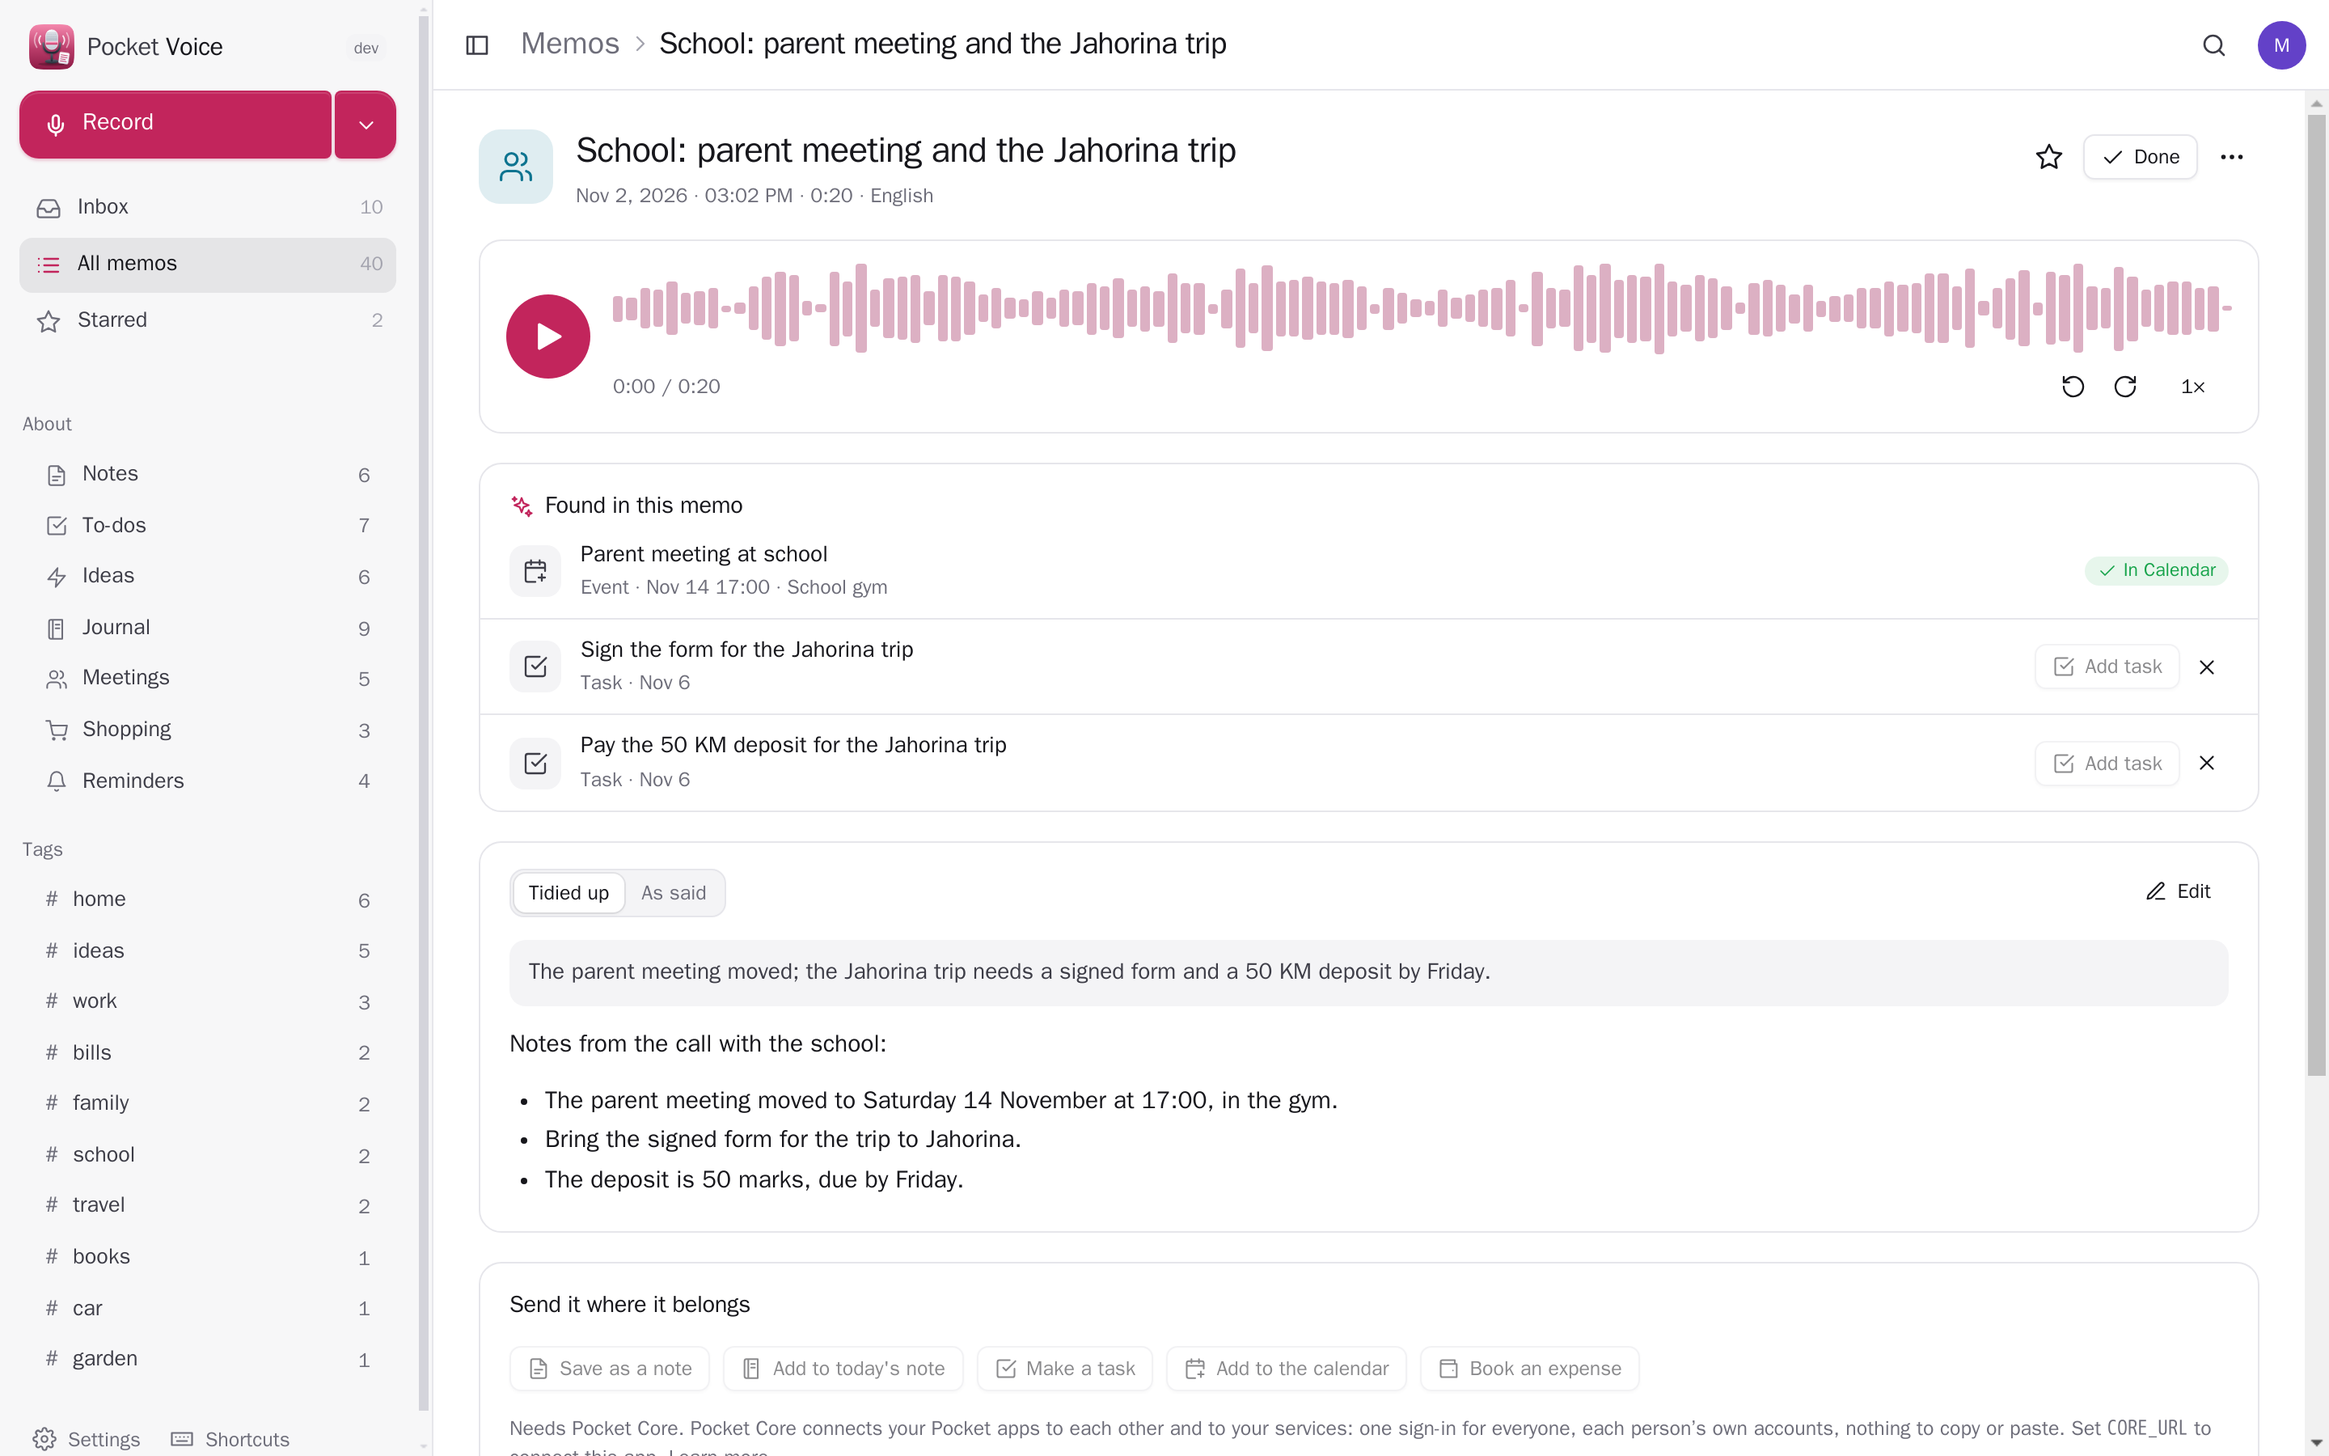
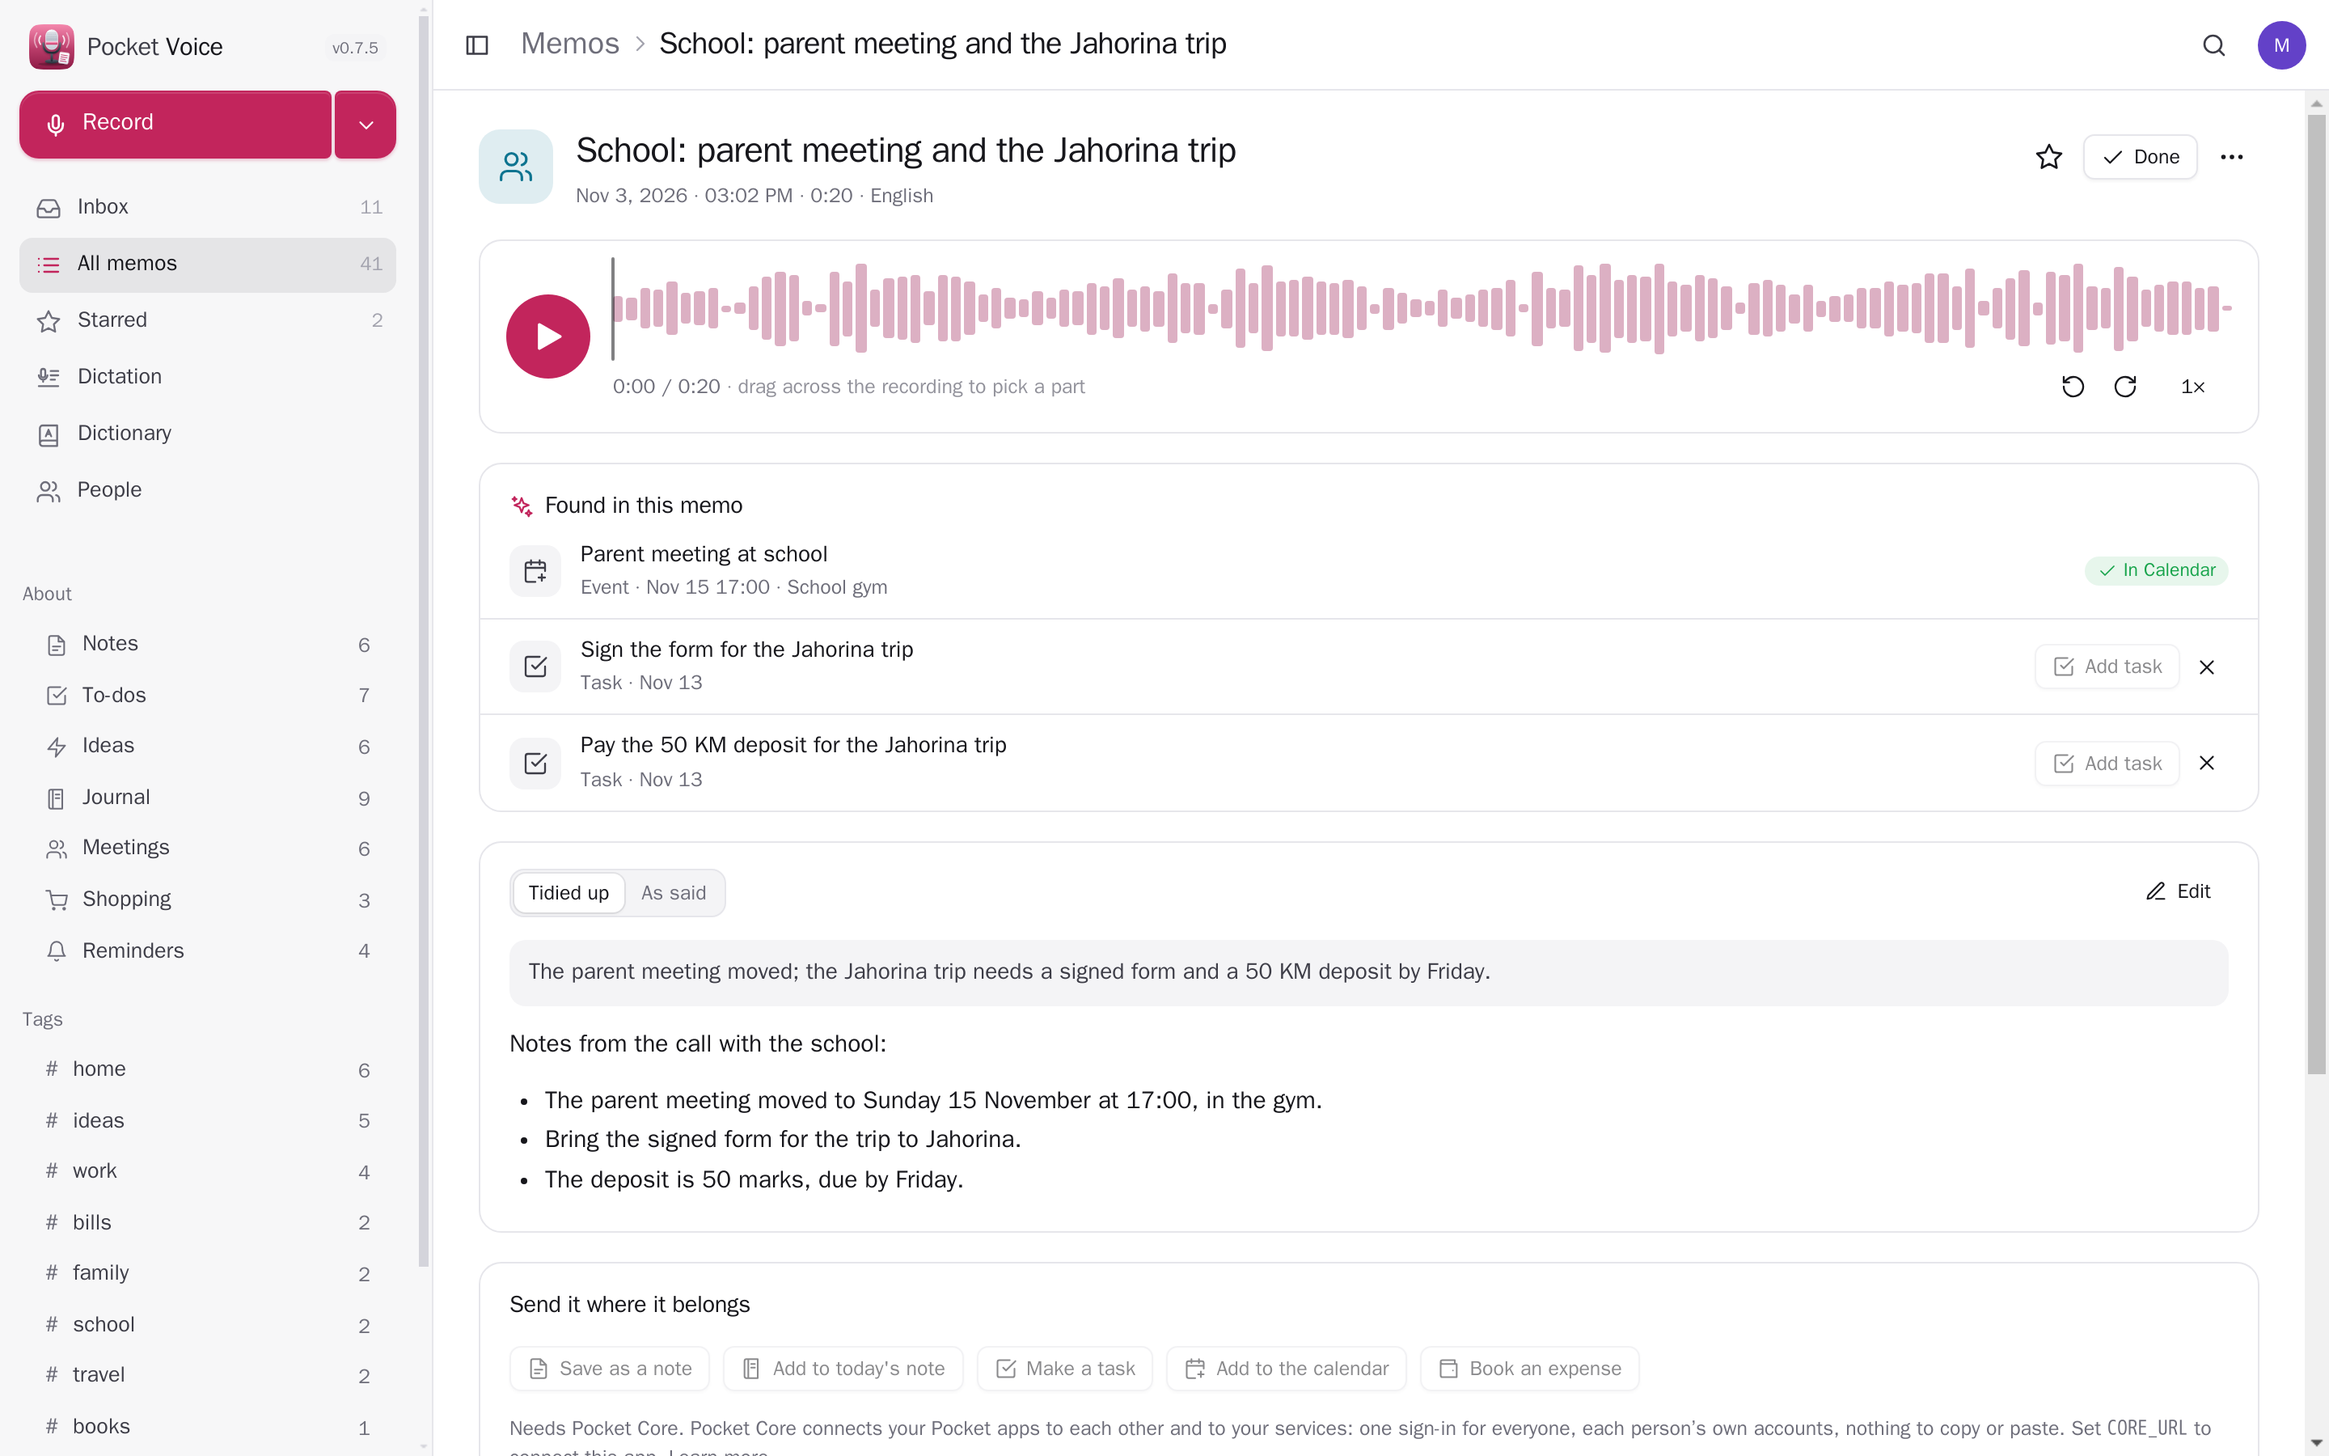
Tag badges without the # and without an underline on hover; the demo has a twenty-minute team stand-up with six voices (named, recognised, asked about, a name heard in the call), and the README shows it (desktop-meeting, dark); screenshots retaken (0.7.5)

diff --git a/web/src/components/TagInput.tsx b/web/src/components/TagInput.tsx
@@ -45,7 +45,7 @@ export function TagInput({ value, onChange, placeholder = 'Add a tag' }: { value
     <div className="tag-input" onClick={e => { if (e.target === e.currentTarget) input.current?.focus() }}>
       {tags.map(t => (
         <span key={t} className="tag-badge">
-          <Link to={`/tag/${encodeURIComponent(t)}`} title={`Memos tagged ${t}`}>#{t}</Link>
+          <Link to={`/tag/${encodeURIComponent(t)}`} title={`Memos tagged ${t}`}>{t}</Link>
           <button type="button" onClick={() => remove(t)} aria-label={`Take off ${t}`} title="Take off"><Icon name="x" size={12} strokeWidth={2.4} /></button>
         </span>
       ))}
@@ -56,7 +56,7 @@ export function TagInput({ value, onChange, placeholder = 'Add a tag' }: { value
           onFocus={() => setOpen(true)} onBlur={() => { setOpen(false); if (q) add(text) }} onKeyDown={key} />
         {shown && <ul className="tag-suggest" role="listbox">{suggest.map((t, i) => (
           <li key={t} role="option" aria-selected={i === hi} className={i === hi ? 'on' : ''}
-            onMouseDown={e => { e.preventDefault(); add(t) }} onMouseEnter={() => setHi(i)}>#{t}<span className="muted small">{known.find(k => k.tag === t)?.count}</span></li>
+            onMouseDown={e => { e.preventDefault(); add(t) }} onMouseEnter={() => setHi(i)}>{t}<span className="muted small">{known.find(k => k.tag === t)?.count}</span></li>
         ))}</ul>}
       </span>
     </div>

diff --git a/web/src/styles/voice.css b/web/src/styles/voice.css
@@ -602,7 +602,7 @@ button.spk:hover { box-shadow: inset 0 0 0 1px color-mix(in srgb, var(--c, var(-
   color: color-mix(in srgb, var(--accent) 80%, var(--text)); background: color-mix(in srgb, var(--accent) 13%, transparent);
   border: 1px solid color-mix(in srgb, var(--accent) 28%, transparent); }
 .tag-badge a { color: inherit; text-decoration: none; }
-.tag-badge a:hover { text-decoration: underline; }
+.tag-badge a:hover { text-decoration: none; color: var(--text); }
 .tag-badge button { display: grid; place-items: center; width: 20px; height: 20px; border: 0; border-radius: 50%; background: transparent; color: inherit; cursor: pointer; opacity: .65; }
 .tag-badge button:hover { opacity: 1; background: color-mix(in srgb, var(--accent) 22%, transparent); }
 .tag-entry { position: relative; flex: 1; min-width: 110px; }

diff --git a/internal/server/demo_meeting.go b/internal/server/demo_meeting.go
@@ -1,0 +1,173 @@
+package server
+
+import (
+	"context"
+	"fmt"
+	"math/rand"
+	"strings"
+	"time"
+
+	"github.com/abjelosevic88/pocket-homelab-voice/internal/speech"
+	"github.com/abjelosevic88/pocket-homelab-voice/internal/store"
+)
+
+// demoTurns is a team stand-up recorded with Pocket Launcher: who spoke
+// ("You", or the call's voices S1…S6) and what they said. Updates are long,
+// questions short, as in a real call.
+var demoTurns = []struct{ who, text string }{
+	{"S1", "Morning everyone. Daniel, your sound is a bit low."},
+	{"S2", "Better now? I moved closer to the mic."},
+	{"S1", "Much better. Let's go round, launch first. Selma, you start?"},
+	{"S4", "Sure. The website copy is done and the last round of images is ready. I'll upload the hero image and the three feature pictures today, before five. The pricing page still has the old screenshots, so I'll redo those tomorrow morning."},
+	{"S1", "Great. And the translations?"},
+	{"S4", "German is back from the translator, Bosnian I'm checking myself tonight."},
+	{"You", "Thanks Selma. From my side, the sign-up flow is finished and merged. I fixed the bug where the confirmation mail went out twice, and I added the welcome screen we talked about last week. Today I'm on the export: people asked for it twice in the beta, so I want it in before the launch."},
+	{"S3", "Can the export do CSV as well as PDF?"},
+	{"You", "CSV first, PDF next week. I'll send you a test file this afternoon."},
+	{"S3", "Perfect, I need it for the accountant's import."},
+	{"S2", "Then me. I can put the site live on Tuesday morning. The servers are ready, the backups run every night, and the status page is up. The payment page still needs one more test with a real card."},
+	{"You", "Let's not go live without that test. Can you run it on Monday?"},
+	{"S2", "Monday afternoon, and I'll post the result in the channel."},
+	{"S1", "Good. Mirza, the newsletter?"},
+	{"S3", "We have twelve hundred people on the list now, up from nine hundred last month. Most came from the blog post about the beta. I'll write the launch mail by Friday and share the draft with Lejla."},
+	{"S1", "Then the mail goes out Tuesday at ten, an hour after the site is up."},
+	{"S5", "On support: we had thirty-two tickets this week, most about logging in on the old app. I wrote a help page for it and the number dropped by half since Wednesday. Two people asked about family accounts, I told them it's coming in spring."},
+	{"S1", "Is spring still right for family accounts?"},
+	{"You", "Spring is fine, but not before the export and the new settings."},
+	{"S5", "Then I'll keep saying spring."},
+	{"S6", "Small one from me: the app store pictures need the new logo. I can do them on Thursday if someone sends me the final files."},
+	{"S4", "I'll send them right after this call."},
+	{"S1", "Next, the budget. We spent about four hundred euros on ads in October and got sixty sign-ups, so roughly seven euros each. Two channels worked, the third brought nothing."},
+	{"S3", "Let's stop the third one and keep the money on the other two."},
+	{"S2", "Agreed. Same four hundred for November?"},
+	{"You", "Yes: we stop the third channel and keep four hundred euros for November."},
+	{"S5", "One more thing: I'm away the week after next, Monday to Wednesday. Tarik's inbox goes to Selma then."},
+	{"S4", "Fine with me."},
+	{"S1", "Thanks Tarik. Anything else? Then that's it. Thanks everyone, see you tomorrow."},
+	{"You", "Thanks all."},
+}
+
+const demoMeetingTidy = `## Launch: website and translations
+
+Lejla: Asked Daniel to fix his low sound, then went round the team, launch first.
+Selma: The website copy and the last images are done; the hero image and three feature pictures go up today, before five. The pricing page screenshots are redone tomorrow morning. German is back from the translator; Selma checks Bosnian tonight.
+
+## Sign-up and export
+
+You: The sign-up flow is finished and merged; the double confirmation mail is fixed and the welcome screen is in. Today: the export, asked for twice in the beta, before the launch.
+Mirza: Asked for CSV as well as PDF, for the accountant's import.
+You: CSV first, PDF next week; a test file this afternoon.
+
+## Going live
+
+Daniel: The site can go live on Tuesday morning: servers, nightly backups and the status page are ready. The payment page needs one more test with a real card.
+You: Not live without that test.
+Daniel: Runs it Monday afternoon and posts the result in the channel.
+
+## Newsletter
+
+Mirza: 1,200 people on the list, up from 900, mostly from the beta blog post. The launch mail draft goes to Lejla by Friday.
+Lejla: The mail goes out on Tuesday at 10, an hour after the site.
+
+## Support and app store
+
+Tarik: 32 tickets this week, mostly logging in on the old app; a help page halved them since Wednesday. Two asked for family accounts: "coming in spring".
+You: Spring holds, after the export and the new settings.
+Speaker 6: The app store pictures need the new logo; done on Thursday with the final files.
+Selma: Sends the files right after the call.
+
+## Budget
+
+Lejla: About €400 on ads in October brought 60 sign-ups, roughly €7 each; two channels worked, the third brought nothing.
+Mirza: Stop the third and keep the money on the other two.
+You: The third channel stops; €400 for November.
+
+## Wrap-up
+
+Tarik: Away the week after next, Monday to Wednesday; his inbox goes to Selma.`
+
+const demoMeetingSummary = `The launch is set for Tuesday: Daniel puts the site live in the morning once he has tested the payment page with a real card on Monday, and Mirza's launch mail follows at 10. The export (CSV first) lands before the launch, support tickets halved after a new help page, and family accounts stay promised for spring. October's €400 of ads brought 60 sign-ups.
+
+Decisions:
+- The site goes live on Tuesday morning, only after the payment test
+- The launch mail goes out on Tuesday at 10:00
+- The export ships as CSV first, PDF next week
+- The ad channel that brought nothing is stopped; €400 for November`
+
+// seedDemoMeeting adds a call written out per voice, with the voices named as
+// they would be after a few meetings: one named by you, one recognised, one
+// asked about and one with a name heard in the conversation.
+func (s *Server) seedDemoMeeting(ctx context.Context, uid int64, rng *rand.Rand) error {
+	vec := func() []float32 {
+		v := make([]float32, 16)
+		for i := range v {
+			v[i] = float32(rng.NormFloat64())
+		}
+		return v
+	}
+	voices := map[string][]float32{"S1": vec(), "S2": vec(), "S3": vec(), "S4": vec(), "S5": vec(), "S6": vec()}
+	people := map[string]*store.Person{}
+	for _, p := range []struct {
+		name, key string
+		meetings  int
+	}{{"Lejla", "S1", 6}, {"Daniel", "S2", 4}, {"Mirza", "S3", 5}, {"Selma", "S4", 3}, {"Tarik", "S5", 2}, {"Nina", "S6", 1}} {
+		person := &store.Person{Name: p.name}
+		for i := 0; i < p.meetings; i++ {
+			person.Voices = append(person.Voices, store.Voice{Emb: voices[p.key], MS: int64(40000 + rng.Intn(80000)), MemoID: int64(-1 - i), At: time.Now().AddDate(0, 0, -7*(i+1)).UTC().Format(time.RFC3339Nano)})
+		}
+		if err := s.store.CreatePerson(ctx, uid, person); err != nil {
+			return err
+		}
+		people[p.key] = person
+	}
+
+	// the turns, timed along the call: a stand-up of about twenty minutes
+	var segs []store.Segment
+	var said []string
+	var at int64 = 1200
+	for _, t := range demoTurns {
+		for _, part := range demoSegments(t.text, int64(float64(len(strings.Fields(t.text)))/2.6*1000*5)+2500) {
+			segs = append(segs, store.Segment{Start: at + part.Start, End: at + part.End, Text: part.Text, Speaker: t.who})
+		}
+		at = segs[len(segs)-1].End + int64(1500+rng.Intn(6000))
+		said = append(said, t.text)
+	}
+	dur := at + 1500
+	ms := map[string]int64{}
+	sample := map[string][2]int64{}
+	for _, sg := range segs {
+		ms[sg.Speaker] += sg.End - sg.Start
+		if sg.End-sg.Start > sample[sg.Speaker][1]-sample[sg.Speaker][0] {
+			sample[sg.Speaker] = [2]int64{sg.Start, sg.End}
+		}
+	}
+	m := &store.Memo{Title: "Team stand-up: launch week", Language: "en", Status: store.StatusDone, Meeting: true, Kind: "meeting", KindSet: true,
+		Tags: "work, launch", Engine: "whisper " + speech.DefaultModel, AIStatus: "done", AIProvider: "pocket",
+		DurationMS: dur, Segments: segs, Tidy: demoMeetingTidy, Summary: demoMeetingSummary, SpeakerVoices: voices, SpeakersStatus: "done",
+		Speakers: []store.Speaker{
+			{Key: "You", Name: "You", State: store.SpeakerYou, MS: ms["You"]},
+			{Key: "S1", Name: "Lejla", PersonID: people["S1"].ID, State: store.SpeakerConfirmed, MS: ms["S1"], Sample: sample["S1"]},
+			{Key: "S2", Name: "Daniel", PersonID: people["S2"].ID, State: store.SpeakerAuto, Score: 0.86, MS: ms["S2"], Sample: sample["S2"]},
+			{Key: "S3", Name: "Mirza", PersonID: people["S3"].ID, State: store.SpeakerConfirmed, MS: ms["S3"], Sample: sample["S3"]},
+			{Key: "S4", Name: "Selma", PersonID: people["S4"].ID, State: store.SpeakerConfirmed, MS: ms["S4"], Sample: sample["S4"]},
+			{Key: "S5", Name: "Tarik", PersonID: people["S5"].ID, State: store.SpeakerAuto, Score: 0.81, MS: ms["S5"], Sample: sample["S5"]},
+			{Key: "S6", State: store.SpeakerSuggested, Suggest: "Nina", SuggestID: people["S6"].ID, Score: 0.63, MS: ms["S6"], Sample: sample["S6"],
+				Hint: "Nina", HintWhy: "Selma answers this voice with \"I'll send them right after this call\" when it asks for the logo files, and Lejla thanked Nina for the same files last week."},
+		},
+		Actions: []store.Action{
+			{Type: "task", Title: "Send Mirza a CSV test file of the export", Due: demoDate(1)},
+			{Type: "task", Title: "Check that Daniel tested the payment page", Due: demoNext(time.Monday), Notes: "With a real card, before the site goes live"},
+			{Type: "event", Title: "Website launch", Start: demoNext(time.Tuesday) + "T09:00"},
+		}}
+	at0 := time.Now().AddDate(0, 0, -1)
+	m.RecordedAt = time.Date(at0.Year(), at0.Month(), at0.Day(), 9, 30, 0, 0, time.Local).UTC().Format(time.RFC3339Nano)
+	m.Peaks = demoPeaks(rng, strings.Join(said, " "))
+	m.Transcript = conversation(segs, func(k string) string { return speakerLabel(m, k) })
+	if name, size, err := s.demoAudio(uid, m.Peaks, dur); err == nil {
+		m.Audio, m.AudioType, m.AudioBytes = name, "audio/wav", size
+	}
+	if err := s.store.CreateMemo(ctx, uid, m); err != nil {
+		return fmt.Errorf("demo meeting: %w", err)
+	}
+	return nil
+}

diff --git a/internal/server/demo.go b/internal/server/demo.go
@@ -241,6 +241,9 @@ func (s *Server) seedDemo(ctx context.Context, uid int64) error {
 			}
 		}
 	}
+	if err := s.seedDemoMeeting(ctx, uid, rng); err != nil {
+		return err
+	}
 	n, err := s.seedDemoDictations(ctx, uid, rng)
 	if err != nil {
 		return err

diff --git a/README.md b/README.md
@@ -30,6 +30,9 @@
   </tr>
 </table>
 
+<p align="center"><img src="docs/screenshots/desktop-meeting.png" width="900" alt="A meeting: a lane and a chip per voice under the waveform, and Who's who with a voice named by you, one recognised, one asked about and one with a name heard in the call"></p>
+<p align="center"><sub>A meeting: each voice on the call gets its lane and its share of the talk. Name a voice once and the next meeting knows it; when Voice is not sure it asks, and it suggests names it heard in the conversation.</sub></p>
+
 ## What it does
 
 - **Record** in the browser on your phone or computer: a calm level line, pause and resume, the screen stays on. Stop, and it is saved and written out. A recording that cannot be sent is never thrown away: try again, or save the file.
